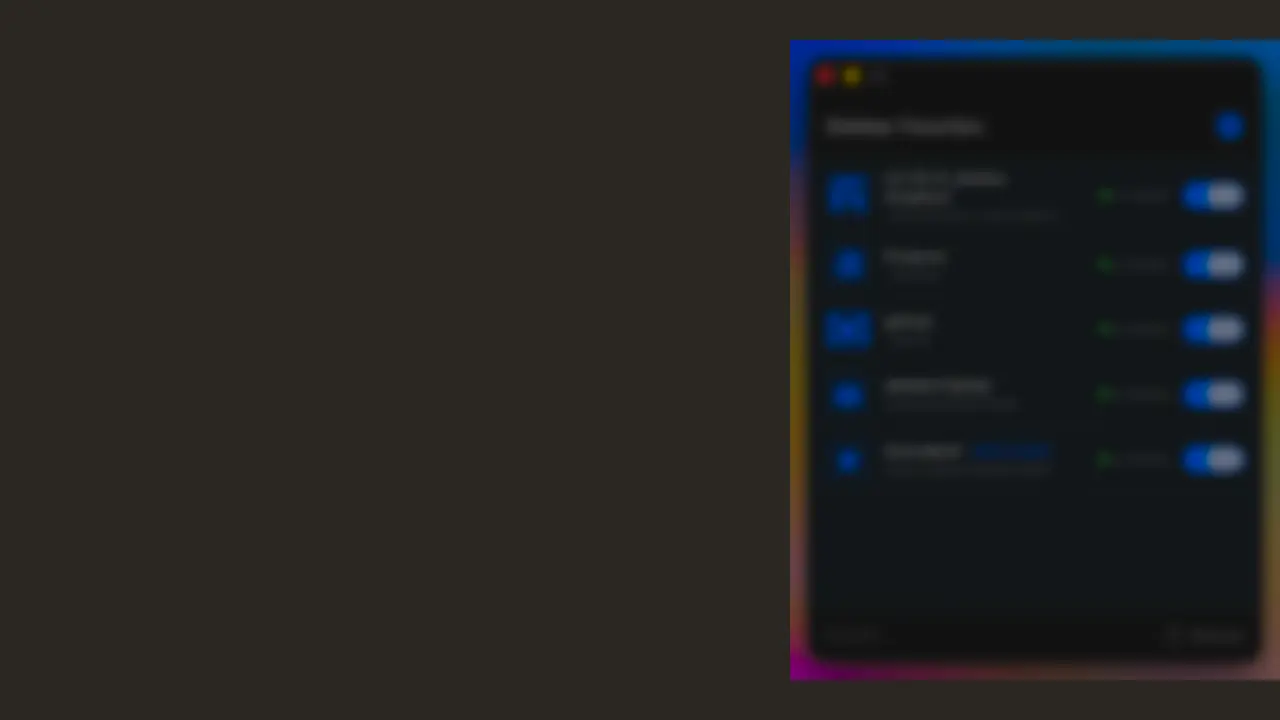
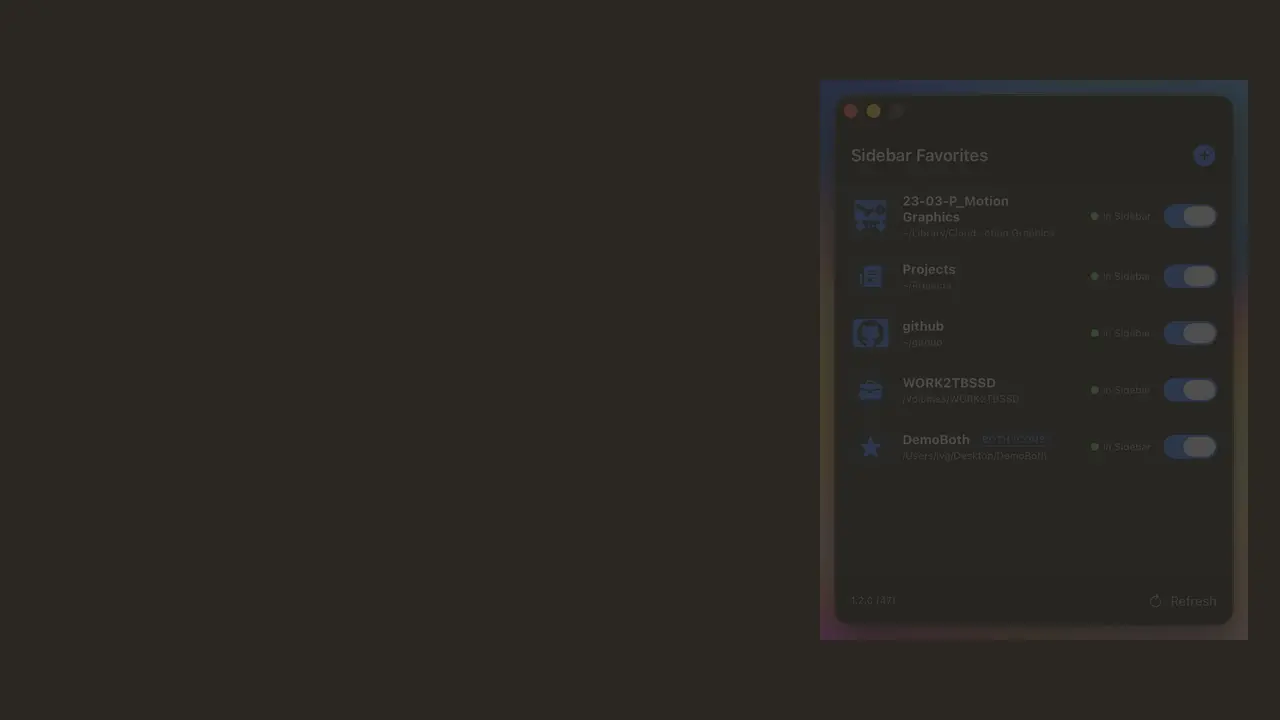
web: hero line break, display tracking, robust mock render, poster, CDP screenshot tool

diff --git a/web/src/app/sections-a.css b/web/src/app/sections-a.css
@@ -20,7 +20,7 @@
 .hero-fine { font-size: 14px; color: var(--muted); margin: 24px 0 0; max-width: 60ch; }
 
 /* finder mock */
-.finder-frame { position: relative; width: 100%; max-width: 640px; aspect-ratio: 640 / 540; }
+.finder-frame { position: relative; overflow-x: clip; width: 100%; max-width: 640px; aspect-ratio: 640 / 540; }
 .finder-scale { transform-origin: top left; width: 640px; height: 540px; position: absolute; left: 0; top: 0; }
 .finder-frame[data-ready="false"] .finder-scale { visibility: hidden; }
 .f-cap { position: absolute; left: calc(var(--gutter) + 8px); bottom: 14px; padding: 6px 12px; border-radius: 999px; background: var(--graphite); color: var(--cream-on-dark); font-size: 13px; pointer-events: none; opacity: 0; transform: translateY(6px); transition: opacity .3s var(--ease-quart), transform .3s var(--ease-quart); }
@@ -105,3 +105,6 @@
 .steps { padding: 0; }
 .ba h2, #how h2 { letter-spacing: -0.005em; font-variation-settings: "opsz" 72; }
 @media (max-width: 430px) { .hero-cta .brew-chip { font-size: 12px; padding: 0 12px; gap: 8px; } }
+
+.hero h1 .brk { display: none; }
+@media (min-width: 1024px) { .hero h1 .brk { display: inline; } }

diff --git a/web/src/app/globals.css b/web/src/app/globals.css
@@ -52,7 +52,7 @@ button { font: inherit; color: inherit; cursor: pointer; }
 .skip:focus { top: 12px; }
 
 /* type */
-.display { font-family: var(--font-display); font-weight: 600; letter-spacing: -0.02em; line-height: 1.04; text-wrap: balance; margin: 0; font-variation-settings: "opsz" 144; }
+.display { font-family: var(--font-display); font-weight: 600; letter-spacing: -0.005em; line-height: 1.06; text-wrap: balance; margin: 0; font-variation-settings: "opsz" 72; }
 .eyebrow { font-size: 12px; font-weight: 700; letter-spacing: 0.14em; text-transform: uppercase; color: var(--coral-ink); margin: 0 0 20px; }
 .h-sec { font-size: clamp(36px, 4.4vw, 56px); }
 .lede { font-size: clamp(17px, 1.5vw, 20px); line-height: 1.55; color: var(--muted); max-width: 52ch; margin: 24px 0 0; text-wrap: pretty; }

diff --git a/web/src/components/Hero.tsx b/web/src/components/Hero.tsx
@@ -20,7 +20,7 @@ export default function Hero({ release }: { release: SiteRelease }) {
             <h1 id="hero-title" className="display" aria-label="Your sidebar, finally legible.">
               {LINE1.map((w, i) => (
                 <span key={w}>
-                  <span className="w" aria-hidden="true" style={{ ["--i" as string]: i }}>{w}</span>{" "}
+                  <span className="w" aria-hidden="true" style={{ ["--i" as string]: i }}>{w}</span>{i === 0 ? <><br className="brk" />{" "}</> : " "}
                 </span>
               ))}
               <em>

diff --git a/web/src/app/sections-b.css b/web/src/app/sections-b.css
@@ -34,7 +34,7 @@
 
 /* under the hood */
 .uth { padding: clamp(80px, 10vw, 140px) 0; }
-.uth h2 { color: #FBF7F0; font-size: clamp(36px, 4.4vw, 60px); max-width: 18ch; }
+.uth h2 { color: #FBF7F0; font-size: clamp(36px, 4.4vw, 60px); max-width: 24ch; }
 .uth .lede { color: var(--muted-on-dark); max-width: 60ch; }
 .ledger { margin-top: clamp(48px, 6vw, 80px); border-top: 1px solid rgba(233,226,212,.14); }
 .led { display: grid; gap: 8px 40px; align-items: center; padding: 28px 0; border-bottom: 1px solid rgba(233,226,212,.14); }
